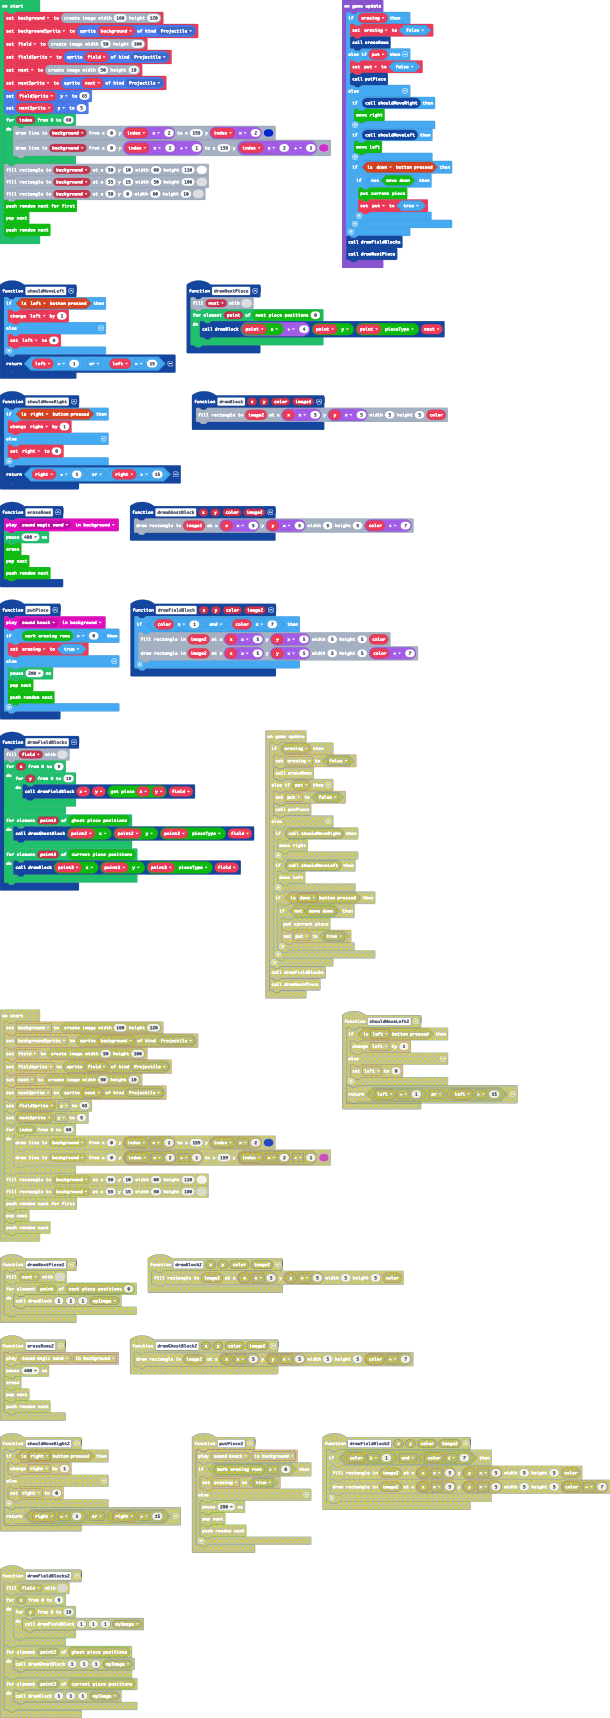
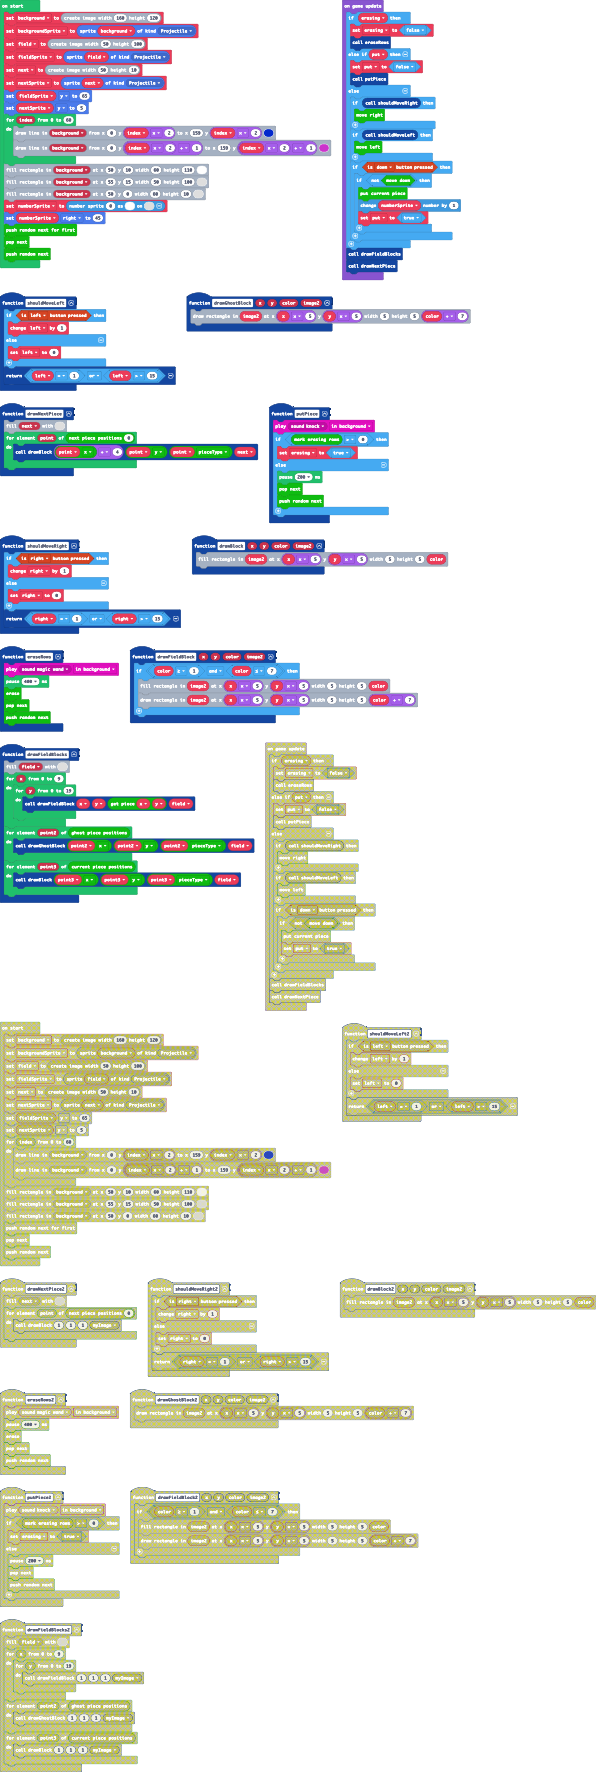
Show a score

diff --git a/numbersprite.ts b/numbersprite.ts
@@ -1,0 +1,140 @@
+namespace SpriteKind {
+    //% isKind
+    export const Number = SpriteKind.create()
+}
+
+//% blockNamespace="numbersprite"
+//% blockGap=8
+class NumberSprite extends Sprite {
+    constructor(
+        public number: number,
+        public bg: number,
+        public fg: number,
+    ) {
+        super(image.create(0, 0))
+        this.setKind(SpriteKind.Number)
+        this.setFlag(SpriteFlag.Ghost, true)
+        this.update()
+    }
+
+    public update() {
+        const right = this.right // store
+
+        const str = this.number.toString()
+
+        const width = str.length * 4 - 1
+        const height = 5
+        const img = image.create(width, height)
+        img.fill(this.bg)
+
+        for (let i = 0; i < str.length; i++) {
+            const c = str[i]
+            switch (c) {
+                case "0":
+                    img.drawRect(i * 4, 0, 3, 5, this.fg)
+                    break
+                case "1":
+                    img.setPixel(i * 4, 0, this.fg)
+                    img.drawLine(i * 4 + 1, 0, i * 4 + 1, 4, this.fg)
+                    break
+                case "2":
+                    img.drawRect(i * 4, 0, 3, 5, this.fg)
+                    img.setPixel(i * 4 + 1, 2, this.fg)
+                    img.setPixel(i * 4, 1, this.bg)
+                    img.setPixel(i * 4 + 2, 3, this.bg)
+                    break
+                case "3":
+                    img.drawRect(i * 4, 0, 3, 5, this.fg)
+                    img.setPixel(i * 4 + 1, 2, this.fg)
+                    img.setPixel(i * 4, 1, this.bg)
+                    img.setPixel(i * 4, 3, this.bg)
+                    break
+                case "4":
+                    img.drawRect(i * 4, 0, 3, 3, this.fg)
+                    img.drawLine(i * 4 + 2, 0, i * 4 + 2, 4, this.fg)
+                    img.setPixel(i * 4 + 1, 0, this.bg)
+                    break
+                case "5":
+                    img.drawRect(i * 4, 0, 3, 5, this.fg)
+                    img.setPixel(i * 4 + 1, 2, this.fg)
+                    img.setPixel(i * 4 + 2, 1, this.bg)
+                    img.setPixel(i * 4, 3, this.bg)
+                    break
+                case "6":
+                    img.drawRect(i * 4, 0, 3, 5, this.fg)
+                    img.setPixel(i * 4 + 1, 2, this.fg)
+                    img.setPixel(i * 4 + 2, 1, this.bg)
+                    break
+                case "7":
+                    img.drawLine(i * 4, 0, i * 4 + 2, 0, this.fg)
+                    img.drawLine(i * 4 + 2, 0, i * 4 + 2, 4, this.fg)
+                    break
+                case "8":
+                    img.drawRect(i * 4, 0, 3, 5, this.fg)
+                    img.setPixel(i * 4 + 1, 2, this.fg)
+                    break
+                case "9":
+                    img.drawRect(i * 4, 0, 3, 5, this.fg)
+                    img.setPixel(i * 4 + 1, 2, this.fg)
+                    img.setPixel(i * 4, 3, this.bg)
+                    break
+                default:
+                    img.fillRect(i * 4, 0, 3, 5, this.fg)
+                    break
+            }
+        }
+
+        this.setImage(img)
+        this.right = right // restore
+    }
+
+    //% block="set $this(numberSprite) number to $number"
+    //% group="Modify"
+    //% weight=80
+    public setNumber(number: number) {
+        this.number = number || 0
+        this.update()
+    }
+
+    //% block="change $this(numberSprite) number by $number"
+    //% group="Modify"
+    //% weight=60
+    public changeNumber(number: number) {
+        this.number += number || 0
+        this.update()
+    }
+
+    //% block="$this(numberSprite) number"
+    //% group="Modify"
+    //% weight=10
+    public getNumber(): number {
+        return this.number
+    }
+}
+
+//% color=#3e99de
+//% icon="\uf031"
+//% blockGap=8 block="Number Sprite"
+//% groups='["Create", "Modify"]'
+namespace numbersprite {
+
+    //% block="number sprite $number || as $fg on $bg"
+    //% blockId="numbersprite_create"
+    //% blockSetVariable="numberSprite"
+    //% expandableArgumentMode="toggle"
+    //% bg.defl=0
+    //% bg.shadow="colorindexpicker"
+    //% fg.defl=1
+    //% fg.shadow="colorindexpicker"
+    //% group="Create"
+    //% weight=100
+    export function create(
+        number: number,
+        bg: number = 0,
+        fg: number = 1,
+    ): NumberSprite {
+        const sprite = new NumberSprite(number, bg, fg)
+        game.currentScene().physicsEngine.addSprite(sprite)
+        return sprite
+    }
+}

diff --git a/main.ts b/main.ts
@@ -93,6 +93,8 @@ for (let index = 0; index <= 60; index++) {
 background.fillRect(50, 10, 60, 110, 15)
 background.fillRect(55, 15, 50, 100, 0)
 background.fillRect(50, 0, 60, 10, 0)
+let numberSprite = numbersprite.create(0, 0, 15)
+numberSprite.right = 45
 TGM.pushRandomNextForFirst()
 TGM.popNext()
 TGM.pushRandomNext()
@@ -113,6 +115,7 @@ game.onUpdate(function () {
         if (controller.down.isPressed()) {
             if (!(TGM.moveDown())) {
                 TGM.putCurrentPiece()
+                numberSprite.changeNumber(1)
                 put = true
             }
         }
